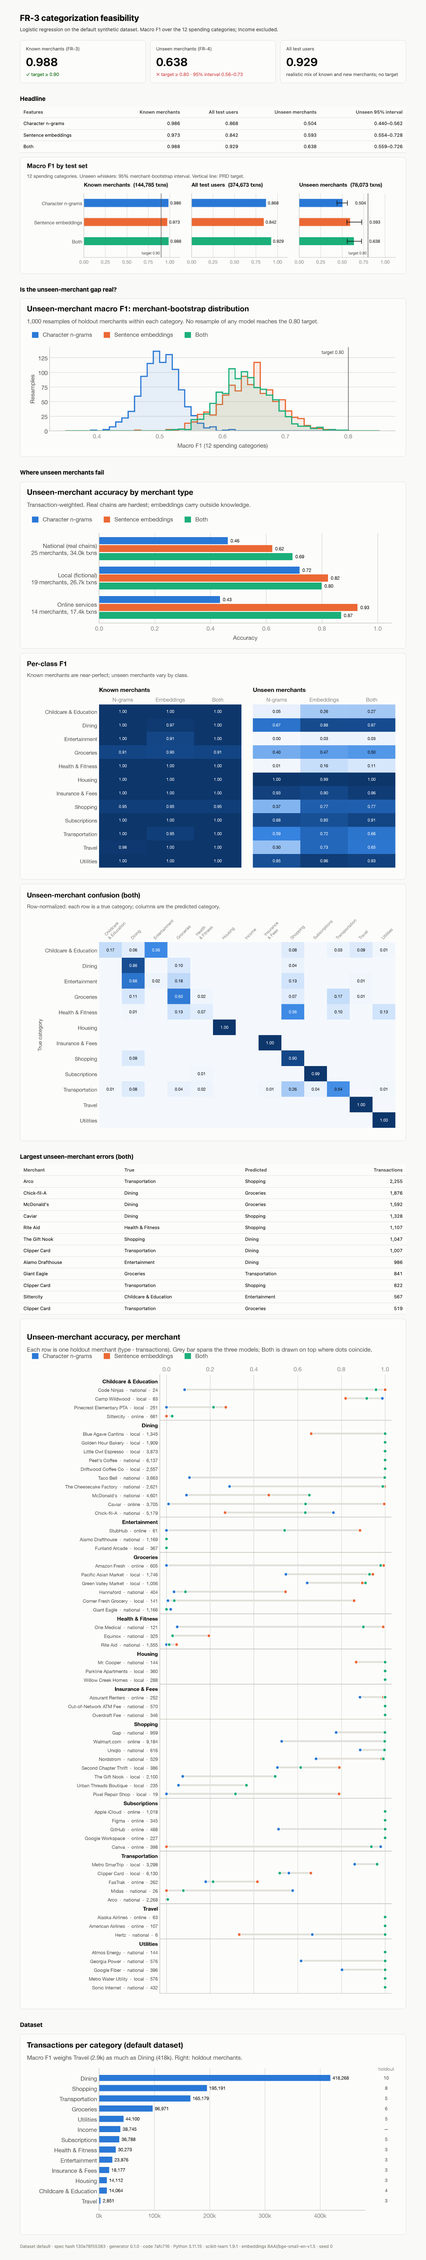
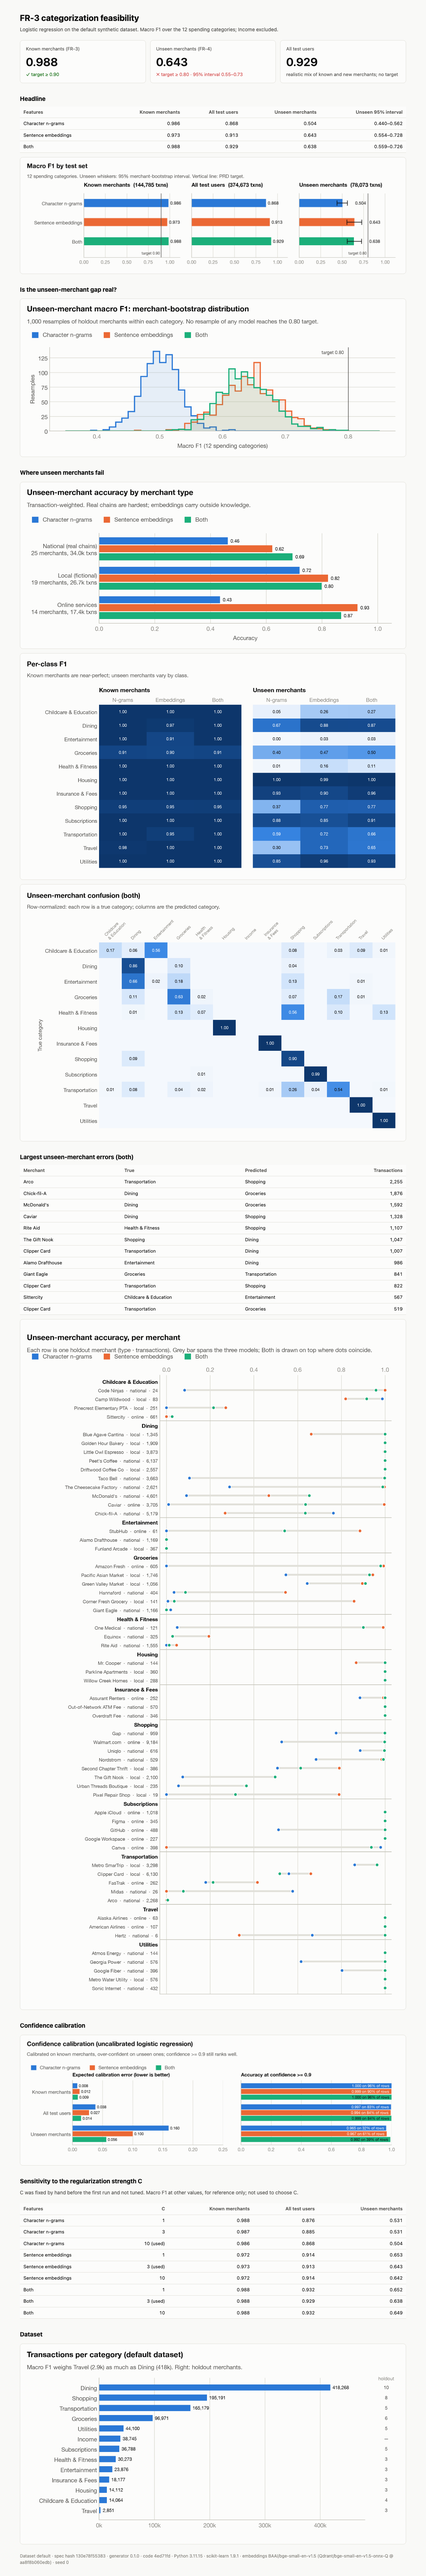
Regenerate FR-3 feasibility results after the macro-F1 fix
Embeddings-only macro F1 is 0.913 on all test users and 0.643 on unseen
merchants (was 0.842 and 0.593). Adds calibration and C-sensitivity
results, the embedding file's provenance and a calibration chart.

diff --git a/experiments/fr3_categorization/results/report.html b/experiments/fr3_categorization/results/report.html
@@ -31,9 +31,9 @@ td.num, th.num { text-align:right; }
 <h1>FR-3 categorization feasibility</h1>
 <p class="sub">Logistic regression on the default synthetic dataset. Macro F1 over the 12
 spending categories; Income excluded.</p>
-<div class="tiles"><div class="tile"><div class="label">Known merchants (FR-3)</div><div class="value">0.988</div><div class="note pass">✓ target ≥ 0.90</div></div><div class="tile"><div class="label">Unseen merchants (FR-4)</div><div class="value">0.638</div><div class="note fail">✗ target ≥ 0.80 · 95% interval 0.56&ndash;0.73</div></div><div class="tile"><div class="label">All test users</div><div class="value">0.929</div><div class="note ">realistic mix of known and new merchants; no target</div></div></div>
+<div class="tiles"><div class="tile"><div class="label">Known merchants (FR-3)</div><div class="value">0.988</div><div class="note pass">✓ target ≥ 0.90</div></div><div class="tile"><div class="label">Unseen merchants (FR-4)</div><div class="value">0.643</div><div class="note fail">✗ target ≥ 0.80 · 95% interval 0.55&ndash;0.73</div></div><div class="tile"><div class="label">All test users</div><div class="value">0.929</div><div class="note ">realistic mix of known and new merchants; no target</div></div></div>
 <h2>Headline</h2>
-<table><tr><th>Features</th><th class="num">Known merchants</th><th class="num">All test users</th><th class="num">Unseen merchants</th><th class="num">Unseen 95% interval</th></tr><tr><td>Character n-grams</td><td class="num">0.986</td><td class="num">0.868</td><td class="num">0.504</td><td class="num">0.440&ndash;0.562</td></tr><tr><td>Sentence embeddings</td><td class="num">0.973</td><td class="num">0.842</td><td class="num">0.593</td><td class="num">0.554&ndash;0.728</td></tr><tr><td>Both</td><td class="num">0.988</td><td class="num">0.929</td><td class="num">0.638</td><td class="num">0.559&ndash;0.726</td></tr></table>
+<table><tr><th>Features</th><th class="num">Known merchants</th><th class="num">All test users</th><th class="num">Unseen merchants</th><th class="num">Unseen 95% interval</th></tr><tr><td>Character n-grams</td><td class="num">0.986</td><td class="num">0.868</td><td class="num">0.504</td><td class="num">0.440&ndash;0.562</td></tr><tr><td>Sentence embeddings</td><td class="num">0.973</td><td class="num">0.913</td><td class="num">0.643</td><td class="num">0.554&ndash;0.728</td></tr><tr><td>Both</td><td class="num">0.988</td><td class="num">0.929</td><td class="num">0.638</td><td class="num">0.559&ndash;0.726</td></tr></table>
 <figure><img src="figures/headline.png" alt="Macro F1 by test set and feature set"></figure>
 <h2>Is the unseen-merchant gap real?</h2>
 <figure><img src="figures/unseen_bootstrap.png" alt="Bootstrap distribution of unseen-merchant macro F1"></figure>
@@ -45,10 +45,17 @@ spending categories; Income excluded.</p>
 <table><tr><th>Merchant</th><th>True</th><th>Predicted</th><th class="num">Transactions</th></tr>
 <tr><td>Arco</td><td>Transportation</td><td>Shopping</td><td class="num">2,255</td></tr><tr><td>Chick-fil-A</td><td>Dining</td><td>Groceries</td><td class="num">1,876</td></tr><tr><td>McDonald&#x27;s</td><td>Dining</td><td>Groceries</td><td class="num">1,592</td></tr><tr><td>Caviar</td><td>Dining</td><td>Shopping</td><td class="num">1,328</td></tr><tr><td>Rite Aid</td><td>Health & Fitness</td><td>Shopping</td><td class="num">1,107</td></tr><tr><td>The Gift Nook</td><td>Shopping</td><td>Dining</td><td class="num">1,047</td></tr><tr><td>Clipper Card</td><td>Transportation</td><td>Dining</td><td class="num">1,007</td></tr><tr><td>Alamo Drafthouse</td><td>Entertainment</td><td>Dining</td><td class="num">986</td></tr><tr><td>Giant Eagle</td><td>Groceries</td><td>Transportation</td><td class="num">841</td></tr><tr><td>Clipper Card</td><td>Transportation</td><td>Shopping</td><td class="num">822</td></tr><tr><td>Sittercity</td><td>Childcare & Education</td><td>Entertainment</td><td class="num">567</td></tr><tr><td>Clipper Card</td><td>Transportation</td><td>Groceries</td><td class="num">519</td></tr></table>
 <figure><img src="figures/unseen_per_merchant.png" alt="Per-merchant accuracy"></figure>
+<h2>Confidence calibration</h2>
+<figure><img src="figures/calibration.png" alt="Calibration error and accuracy at high confidence"></figure>
+<h2>Sensitivity to the regularization strength C</h2>
+<p class="sub">C was fixed by hand before the first run and not tuned. Macro F1 at other
+values, for reference only; not used to choose C.</p>
+<table><tr><th>Features</th><th class="num">C</th><th class="num">Known merchants</th><th class="num">All test users</th><th class="num">Unseen merchants</th></tr><tr><td>Character n-grams</td><td class="num">1</td><td class="num">0.988</td><td class="num">0.876</td><td class="num">0.531</td></tr><tr><td>Character n-grams</td><td class="num">3</td><td class="num">0.987</td><td class="num">0.885</td><td class="num">0.531</td></tr><tr><td>Character n-grams</td><td class="num">10 (used)</td><td class="num">0.986</td><td class="num">0.868</td><td class="num">0.504</td></tr><tr><td>Sentence embeddings</td><td class="num">1</td><td class="num">0.972</td><td class="num">0.914</td><td class="num">0.653</td></tr><tr><td>Sentence embeddings</td><td class="num">3 (used)</td><td class="num">0.973</td><td class="num">0.913</td><td class="num">0.643</td></tr><tr><td>Sentence embeddings</td><td class="num">10</td><td class="num">0.972</td><td class="num">0.914</td><td class="num">0.642</td></tr><tr><td>Both</td><td class="num">1</td><td class="num">0.988</td><td class="num">0.932</td><td class="num">0.652</td></tr><tr><td>Both</td><td class="num">3 (used)</td><td class="num">0.988</td><td class="num">0.929</td><td class="num">0.638</td></tr><tr><td>Both</td><td class="num">10</td><td class="num">0.988</td><td class="num">0.932</td><td class="num">0.649</td></tr></table>
 <h2>Dataset</h2>
 <figure><img src="figures/dataset_categories.png" alt="Transactions per category"></figure>
 <p class="meta">Dataset default · spec hash 130e78f55383 · generator
-0.1.0 · code 7afc716 · Python 3.11.15 ·
-scikit-learn 1.9.1 · embeddings BAAI/bge-small-en-v1.5 ·
+0.1.0 · code 4ed71fd · Python 3.11.15 ·
+scikit-learn 1.9.1 · embeddings BAAI/bge-small-en-v1.5
+(Qdrant/bge-small-en-v1.5-onnx-Q @ aa8f8b060edb) ·
 seed 0</p>
 </main></body></html>

diff --git a/experiments/fr3_categorization/plots.py b/experiments/fr3_categorization/plots.py
@@ -351,6 +351,55 @@ def confusion(r: dict[str, Any], out: Path, kind: str = "both") -> Path:
     return save(fig, out, f"unseen_confusion_{kind}")
 
 
+def calibration(r: dict[str, Any], out: Path) -> Path:
+    exps = r["experiments"]
+    threshold = r["setup"]["confidence_threshold"]
+    fig, axes = plt.subplots(1, 2, figsize=(11, 3.6), sharey=True)
+    fig.subplots_adjust(left=0.13, right=0.97, top=0.66, bottom=0.14, wspace=0.12)
+    title(
+        fig,
+        "Confidence calibration (uncalibrated logistic regression)",
+        "Calibrated on known merchants, over-confident on unseen ones; "
+        f"confidence >= {threshold} still ranks well.",
+    )
+    legend(fig, 0.82)
+    sets = list(TEST_SETS.items())
+    panels = (
+        ("ece", "Expected calibration error (lower is better)", 0.25),
+        ("accuracy_at_threshold", f"Accuracy at confidence >= {threshold}", 1.0),
+    )
+    height = 0.24
+    for ax, (metric, label, xmax) in zip(axes, panels, strict=True):
+        style(ax)
+        for s_idx, (key, _) in enumerate(sets):
+            base = len(sets) - 1 - s_idx
+            for m_idx, (kind, (_, color)) in enumerate(MODELS.items()):
+                cal = exps[kind][key]["calibration"]
+                value = cal[metric]
+                yi = base + (1 - m_idx) * (height + 0.03)
+                ax.barh(yi, value, height=height, color=color)
+                if metric == "accuracy_at_threshold":
+                    # Bars sit near 1.0, so the label goes inside the bar end.
+                    text = f"{value:.3f} on {cal['coverage_at_threshold']:.0%} of rows"
+                    ax.text(
+                        value - 0.015,
+                        yi,
+                        text,
+                        va="center",
+                        ha="right",
+                        fontsize=8,
+                        color="white" if kind != "both" else INK,
+                    )
+                else:
+                    ax.text(
+                        value + xmax * 0.01, yi, f"{value:.3f}", va="center", fontsize=8, color=INK
+                    )
+        ax.set_xlim(0, xmax)
+        ax.set_title(label, pad=8, fontsize=10)
+    axes[0].set_yticks([len(sets) - 1 - i for i in range(len(sets))], [lab for _, lab in sets])
+    return save(fig, out, "calibration")
+
+
 def classes(r: dict[str, Any], out: Path) -> Path:
     facts = r["facts"]
     counts = pd.Series(facts["transactions_by_category"]).sort_values()
@@ -473,6 +522,15 @@ def report_html(r: dict[str, Any], figures: dict[str, Path], embed: bool) -> str
         f'<td class="num">{e["transactions"]:,}</td></tr>'
         for e in unseen["top_errors"]
     )
+    sens = "".join(
+        f'<tr><td>{MODELS[k][0]}</td><td class="num">{float(c):g}'
+        + (" (used)" if float(c) == r["setup"]["C_by_kind"][k] else "")
+        + "</td>"
+        + "".join(f'<td class="num">{by_c[c][t]:.3f}</td>' for t in TEST_SETS)
+        + "</tr>"
+        for k, by_c in r["c_sensitivity"].items()
+        for c in sorted(by_c, key=float)
+    )
     d, env = r["dataset"], r["environment"]
     return f"""<!doctype html>
 <html lang="en"><head><meta charset="utf-8">
@@ -496,11 +554,18 @@ spending categories; Income excluded.</p>
 <table><tr><th>Merchant</th><th>True</th><th>Predicted</th><th class="num">Transactions</th></tr>
 {errors}</table>
 {img("unseen_per_merchant", "Per-merchant accuracy")}
+<h2>Confidence calibration</h2>
+{img("calibration", "Calibration error and accuracy at high confidence")}
+<h2>Sensitivity to the regularization strength C</h2>
+<p class="sub">C was fixed by hand before the first run and not tuned. Macro F1 at other
+values, for reference only; not used to choose C.</p>
+<table><tr><th>Features</th><th class="num">C</th>{head}</tr>{sens}</table>
 <h2>Dataset</h2>
 {img("dataset_categories", "Transactions per category")}
 <p class="meta">Dataset {d["spec_name"]} · spec hash {d["spec_hash"][:12]} · generator
 {d["generator_version"]} · code {env["git_commit"][:7]} · Python {env["python"]} ·
-scikit-learn {env["sklearn"]} · embeddings {env["embedding_model"]} ·
+scikit-learn {env["sklearn"]} · embeddings {env["embedding_model"]}
+({env["embedding_file"].get("source")} @ {env["embedding_file"].get("revision", "?")[:12]}) ·
 seed {r["setup"]["seed"]}</p>
 </main></body></html>
 """
@@ -567,6 +632,7 @@ def main() -> None:
             by_scope(results, out),
             per_merchant(results, out),
             confusion(results, out),
+            calibration(results, out),
             classes(results, out),
         )
     }

diff --git a/experiments/fr3_categorization/README.md b/experiments/fr3_categorization/README.md
@@ -16,8 +16,9 @@ Both scripts declare their own dependencies (PEP 723), including `fastembed`, so
 
 - **Splits** (Technical Design): known merchants are a stratified 20% of train users' transactions. Unseen merchants are test users' transactions at holdout merchants. "All test users" is every test-user transaction.
 - **Training:** the other 80% of train users' transactions, at most 20,000 per class, seed 0. No label noise.
+- **Regularization:** C = 10 for n-grams and 3 for the embedding variants, fixed by hand before the first run and never tuned. The report includes a sensitivity table at C = 1, 3 and 10, which was not used to choose C. Unseen-merchant F1 moves by at most 0.03, and no setting changes a conclusion.
 - **Models:** multinomial logistic regression with balanced class weights over three feature sets: character 2–4-grams of `merchant_raw`, a frozen `bge-small-en-v1.5` embedding of the normalized text, or both. Each also gets amount bin, sign, channel and hour.
-- **Metrics:** macro F1 over the 12 spending categories (Income excluded), per-class F1, the largest error groups, and a 95% interval for unseen merchants from 1,000 bootstrap resamples of merchants within each category.
+- **Metrics:** macro F1 over exactly the 12 spending categories (Income excluded; see the correction below), per-class F1, the largest error groups, and a 95% interval for unseen merchants from 1,000 bootstrap resamples of merchants within each category.
 
 ## Results
 
@@ -30,6 +31,8 @@ Both scripts declare their own dependencies (PEP 723), including `fastembed`, so
 | [results/feasibility.json](results/feasibility.json) | Everything: per-class precision and recall, confusion matrices, per-merchant accuracy, bootstrap samples |
 
 A second run gives identical metrics.
+
+**Correction (PR #4 review).** Earlier results understated the embeddings-only row: 0.842 → **0.913** on all test users and 0.593 → **0.643** on unseen merchants. `f1_score` without `labels=` averages over every label in the truth or the predictions. One spending row predicted as Income therefore added Income, with F1 0, to the average. The fix passes the 12 spending labels explicitly; no other row changed.
 
 ### Headline: FR-3's target is met; FR-4's is not
 
@@ -49,6 +52,12 @@ No bootstrap resample of any model reaches 0.80; the best is 0.793.
 
 ![Unseen-merchant confusion](results/figures/unseen_confusion_both.png)
 
+### Confidence is calibrated on known merchants, over-confident on unseen ones
+
+The model is uncalibrated here. Calibration error is 0.008–0.012 on known merchants and 0.056–0.160 on unseen ones. Even so, confidence ≥ 0.9 is at least 96.5% accurate on unseen merchants.
+
+![Calibration](results/figures/calibration.png)
+
 ### Per merchant
 
 ![Per-merchant accuracy](results/figures/unseen_per_merchant.png)
@@ -61,4 +70,4 @@ Charts use the dataviz reference palette; the three series colours were checked 
 
 ## Not done here
 
-No hyperparameter search or confidence calibration, no keyword baseline, and no gradient-boosted tree or transformer candidates. Those belong to the FR-3 milestones.
+No hyperparameter search or confidence calibration (calibration is measured, not fitted), no keyword baseline, and no gradient-boosted tree or transformer candidates. Those belong to the FR-3 milestones.

diff --git a/experiments/fr3_categorization/results/feasibility.md b/experiments/fr3_categorization/results/feasibility.md
@@ -3,19 +3,53 @@
 Generated by `feasibility.py`; do not edit by hand. Macro F1 is over the 12 spending categories (Income excluded).
 
 - Dataset: `default`, spec hash `130e78f55383`, generator 0.1.0
-- Code: commit `7afc716`, Python 3.11.15, scikit-learn 1.9.1
+- Code: commit `4ed71fd`, Python 3.11.15, scikit-learn 1.9.1
 - Training rows: 194,318 (train users, at most 20,000 per class), seed 0
-- Runtime: 149 s total; 12,794 normalized strings embedded in 10.2 s
+- Runtime: 324 s total; 12,794 normalized strings embedded in 10.2 s
 
 ## Headline
 
 | Features | Known merchants | All test users | Unseen merchants | Unseen, 95% merchant-bootstrap interval |
 | --- | --- | --- | --- | --- |
 | Character 2-4-grams of merchant_raw + amount bin, sign, channel, hour | 0.986 | 0.868 | 0.504 | 0.440 to 0.562 |
-| Sentence embedding of normalized text (BAAI/bge-small-en-v1.5) + same side features | 0.973 | 0.842 | 0.593 | 0.554 to 0.728 |
+| Sentence embedding of normalized text (BAAI/bge-small-en-v1.5) + same side features | 0.973 | 0.913 | 0.643 | 0.554 to 0.728 |
 | Both | 0.988 | 0.929 | 0.638 | 0.559 to 0.726 |
 
 Test-set sizes (known / all test users / unseen): 144,785 / 374,673 / 78,073 transactions.
+
+## Confidence calibration (uncalibrated logistic regression)
+
+All rows of each test set. ECE: expected calibration error, 15 equal-width bins.
+
+| Features | Test set | Accuracy | Mean confidence | ECE | Accuracy at confidence >= 0.9 | Share of rows at >= 0.9 |
+| --- | --- | --- | --- | --- | --- | --- |
+| Character 2-4-grams of merchant_raw | Known | 0.982 | 0.984 | 0.008 | 1.000 | 96.2% |
+| Character 2-4-grams of merchant_raw | All test users | 0.891 | 0.922 | 0.038 | 0.997 | 82.7% |
+| Character 2-4-grams of merchant_raw | Unseen | 0.544 | 0.686 | 0.160 | 0.965 | 31.8% |
+| Sentence embedding of normalized text (BAAI/bge-small-en-v1.5) | Known | 0.962 | 0.965 | 0.012 | 0.999 | 90.3% |
+| Sentence embedding of normalized text (BAAI/bge-small-en-v1.5) | All test users | 0.922 | 0.941 | 0.027 | 0.994 | 84.2% |
+| Sentence embedding of normalized text (BAAI/bge-small-en-v1.5) | Unseen | 0.759 | 0.852 | 0.100 | 0.967 | 61.4% |
+| Both | Known | 0.982 | 0.983 | 0.009 | 1.000 | 96.3% |
+| Both | All test users | 0.938 | 0.938 | 0.014 | 0.999 | 84.2% |
+| Both | Unseen | 0.769 | 0.767 | 0.056 | 0.992 | 38.6% |
+
+## Sensitivity to the regularization strength C
+
+C was fixed by hand before the first run (n-grams 10, embeddings and both 3) and not tuned. This table shows macro F1 at other values; it was not used to choose C.
+
+| Features | C | Known | All test users | Unseen |
+| --- | --- | --- | --- | --- |
+| ngrams | 1 | 0.988 | 0.876 | 0.531 |
+| ngrams | 3 | 0.987 | 0.885 | 0.531 |
+| ngrams | 10 (used) | 0.986 | 0.868 | 0.504 |
+| embeddings | 1 | 0.972 | 0.914 | 0.653 |
+| embeddings | 3 (used) | 0.973 | 0.913 | 0.643 |
+| embeddings | 10 | 0.972 | 0.914 | 0.642 |
+| both | 1 | 0.988 | 0.932 | 0.652 |
+| both | 3 (used) | 0.988 | 0.929 | 0.638 |
+| both | 10 | 0.988 | 0.932 | 0.649 |
+
+Embedding file: `Qdrant/bge-small-en-v1.5-onnx-Q` revision `aa8f8b060edb`, `model_optimized.onnx`, sha256 `51f1bd0addd6e859…`.
 
 ## Unseen merchants: per-class F1
 
